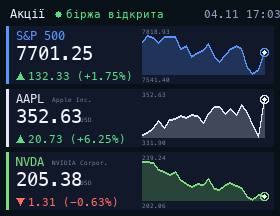
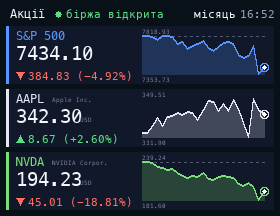
stocks, ticker: choose the chart period with left/right
Stocks: 1 hour, day, 5 days, month, 6 months, year, 5 years.
Crypto: 1 hour, 24 hours, week, month, year.
The choice is saved in the cache file so the wallpaper keeps it;
each period has its own refresh interval.

diff --git a/stocks/README.md b/stocks/README.md
@@ -1,12 +1,12 @@
 # Stocks
 
-The S&P 500, Apple and NVIDIA with the price, the change since the previous close and a 30-day chart, from Yahoo Finance (no API key). The header shows whether the US market is open. To change the tickers, edit `SYMBOLS` at the top of the script; any Yahoo Finance ticker works (for example `^IXIC`, `MSFT`, `TSLA`).
+The S&P 500, Apple and NVIDIA with the price, the change and a chart for the chosen period, from Yahoo Finance (no API key). Periods: 1 hour, day, 5 days, month (default), 6 months, year, 5 years. The change is counted from the close before the period (for the hour, from its first price), shown as the dashed line. The header shows whether the US market is open. To change the tickers, edit `SYMBOLS` at the top of the script; any Yahoo Finance ticker works (for example `^IXIC`, `MSFT`, `TSLA`).
 
 ![screenshot](screenshot.png)
 
 ## Install
 
-Copy `wallpaper.lua` to the SD card as `/sd/wallpaper.lua`. Connect to Wi-Fi in Keira, then open `/sd/wallpaper.lua` from the file manager once: the app downloads the data into `stocks.txt`. With a recent Keira the wallpaper also refreshes it every 15 minutes, one ticker at a time. On older firmware it only shows the saved data, so open the app again to refresh it.
+Copy `wallpaper.lua` to the SD card as `/sd/wallpaper.lua`. Connect to Wi-Fi in Keira, then open `/sd/wallpaper.lua` from the file manager once: the app downloads the data into `stocks.txt`. With a recent Keira the wallpaper also refreshes it one ticker at a time: every 2 minutes for the hour, up to every 6 hours for 5 years. The chosen period is saved in `stocks.txt` too, so the wallpaper keeps it. To change the default, edit `PERIOD`. On older firmware it only shows the saved data, so open the app again to refresh it.
 
 Yahoo Finance has no official public API, so this may stop working if Yahoo changes it.
 
@@ -14,5 +14,6 @@ Yahoo Finance has no official public API, so this may stop working if Yahoo chan
 
 | Button | Action |
 | --- | --- |
+| ← → | Change the period |
 | A | Refresh |
 | START | Exit |

diff --git a/ticker/README.md b/ticker/README.md
@@ -1,16 +1,17 @@
 # Crypto Ticker
 
-BTC, ETH, SOL and BNB prices in USDT with the 24-hour change and a 24-hour chart, from the public [Binance market data API](https://developers.binance.com/docs/binance-spot-api-docs/rest-api) (no API key). The dashed line marks the price 24 hours ago. To change the coins, edit `COINS` at the top of the script.
+BTC, ETH, SOL and BNB prices in USDT with the change and a chart for the chosen period: 1 hour, 24 hours (default), week, month or year, from the public [Binance market data API](https://developers.binance.com/docs/binance-spot-api-docs/rest-api) (no API key). The dashed line marks the price at the start of the period. To change the coins, edit `COINS` at the top of the script.
 
 ![screenshot](screenshot.png)
 
 ## Install
 
-Copy `wallpaper.lua` to the SD card as `/sd/wallpaper.lua`. Connect to Wi-Fi in Keira, then open `/sd/wallpaper.lua` from the file manager once: the app downloads the data into `ticker.txt`. With a recent Keira the wallpaper also refreshes one coin at a time every 5 minutes. On older firmware it only shows the saved data, so open the app again to refresh it.
+Copy `wallpaper.lua` to the SD card as `/sd/wallpaper.lua`. Connect to Wi-Fi in Keira, then open `/sd/wallpaper.lua` from the file manager once: the app downloads the data into `ticker.txt`. With a recent Keira the wallpaper also refreshes one coin at a time: every minute for the hour, up to every 6 hours for the year. The chosen period is saved in `ticker.txt` too, so the wallpaper keeps it. To change the default, edit `PERIOD`. On older firmware it only shows the saved data, so open the app again to refresh it.
 
 ## Controls (app only)
 
 | Button | Action |
 | --- | --- |
+| ← → | Change the period |
 | A | Refresh |
 | START | Exit |
